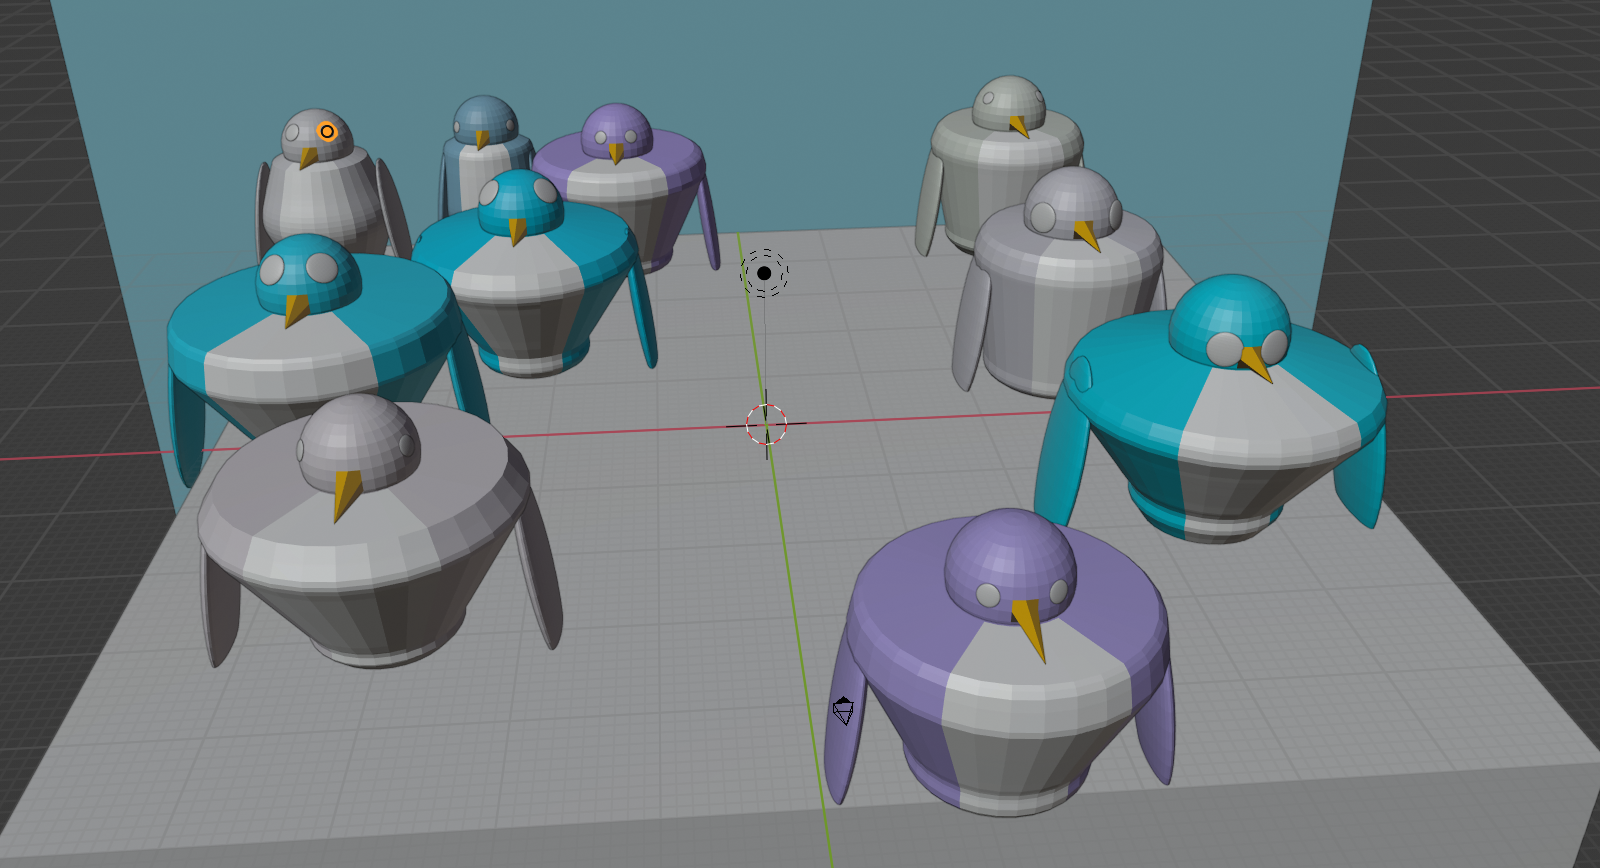
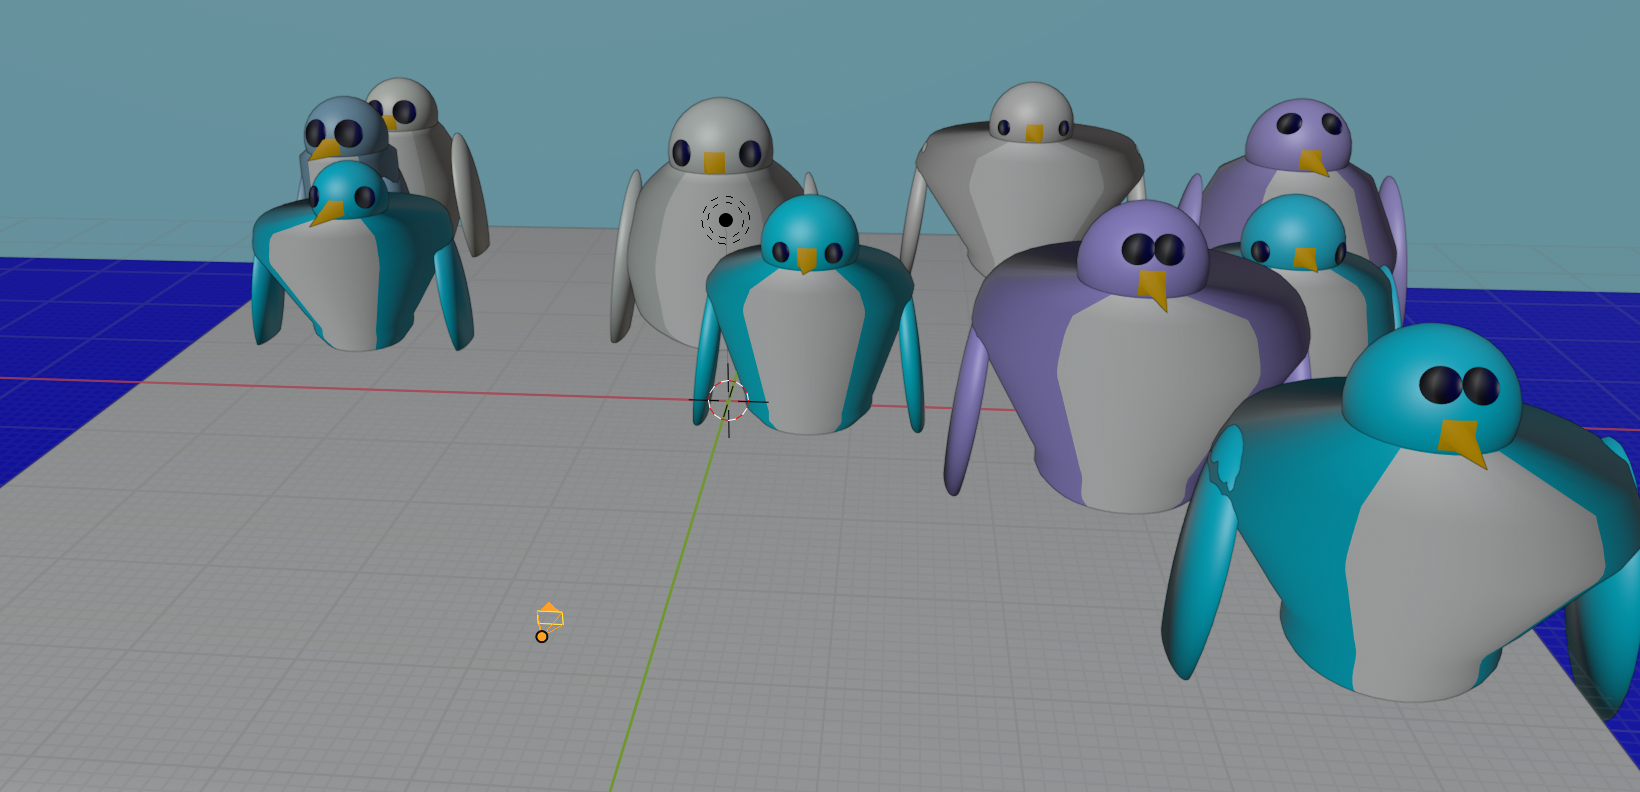
Changed eye color and added basic ocean.'

diff --git a/penguin.py b/penguin.py
@@ -207,7 +207,7 @@ def colorize(obj,mat=None):
     #activeObject = bpy.context.active_object #Set active object to variable
 
     #mat.diffuse_color = (1, 5, .2, 1) #yellow
-    probs = [100,10,100,10,10,10,10,10,10,100]
+    probs = [100,10,80,10,10,100,10,10,10,100]
     colors = [
             (123,104,238),  # medium slate blue
             (230,230,250),  # lavender
@@ -365,19 +365,29 @@ if __name__ == '__main__':
     chest_mat = init_material([1,1,1],"chest")
     beak_mat = init_material([1,140/255,0],"beak")
     ice_mat = init_material([1,1,1],"ice")
+    water_mat = init_material([0,0,1],"water")
     sky_mat = init_material([101/255,216/255,1],"sky")
+    eye_mat = init_material([0,0,.1],"eyes")
     
     # initialize iceberg
     iceberg_obj = bpy.data.objects['Cube']
     iceberg_obj.scale = (50,50,5)
-    iceberg_obj.location = (0,0,-iceberg_obj.scale[2])
+    sea_level = -iceberg_obj.scale[2]
+    iceberg_obj.location = (0,0,sea_level)
     colorize(iceberg_obj, ice_mat)
     iceberg_bounds = ((-50,50),(-50,50))
 
+    # initialize water
+    sz = 500
+    bpy.ops.mesh.primitive_plane_add(size=sz, location=(0,0,sea_level))
+    water_obj = bpy.context.active_object
+
+    colorize(water_obj, water_mat)
+
     # initialize sky
-    sz = 150
+    sz = 500
     bpy.ops.mesh.primitive_plane_add(size=sz, location=(0,-50,sz/2-50),rotation=(pi/2,0,0))
-    sky_obj = bpy.data.objects['Plane']
+    sky_obj = bpy.context.active_object
     colorize(sky_obj, sky_mat)
  
     positions = []
@@ -438,7 +448,9 @@ if __name__ == '__main__':
         eye_rad = random.random()*(max_eye_rad-min_eye_rad)+min_eye_rad
         eye_pos1, eye_pos2 = eye_position(*head_obj.location,rad,0,1,eye_rad)
         left_eye = add_eye(eye_pos1,head_obj.location,eye_rad)
+        colorize(left_eye,eye_mat)
         right_eye = add_eye(eye_pos2,head_obj.location,eye_rad)
+        colorize(right_eye,eye_mat)
 
 
 
